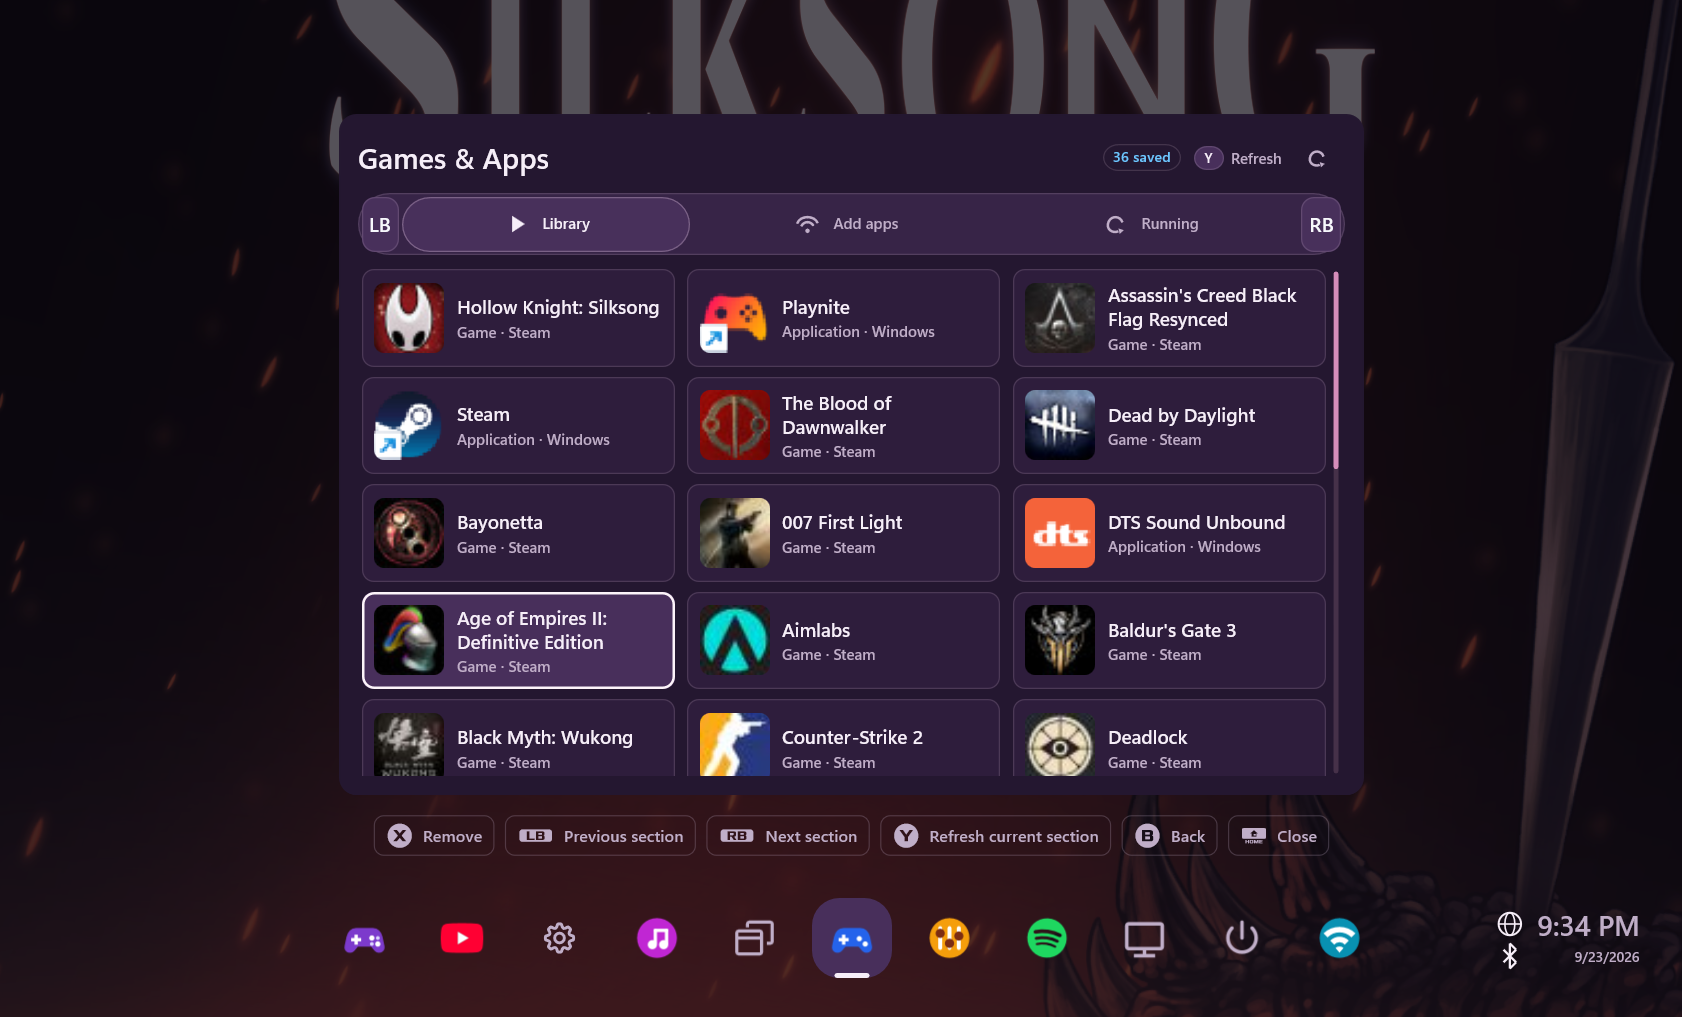
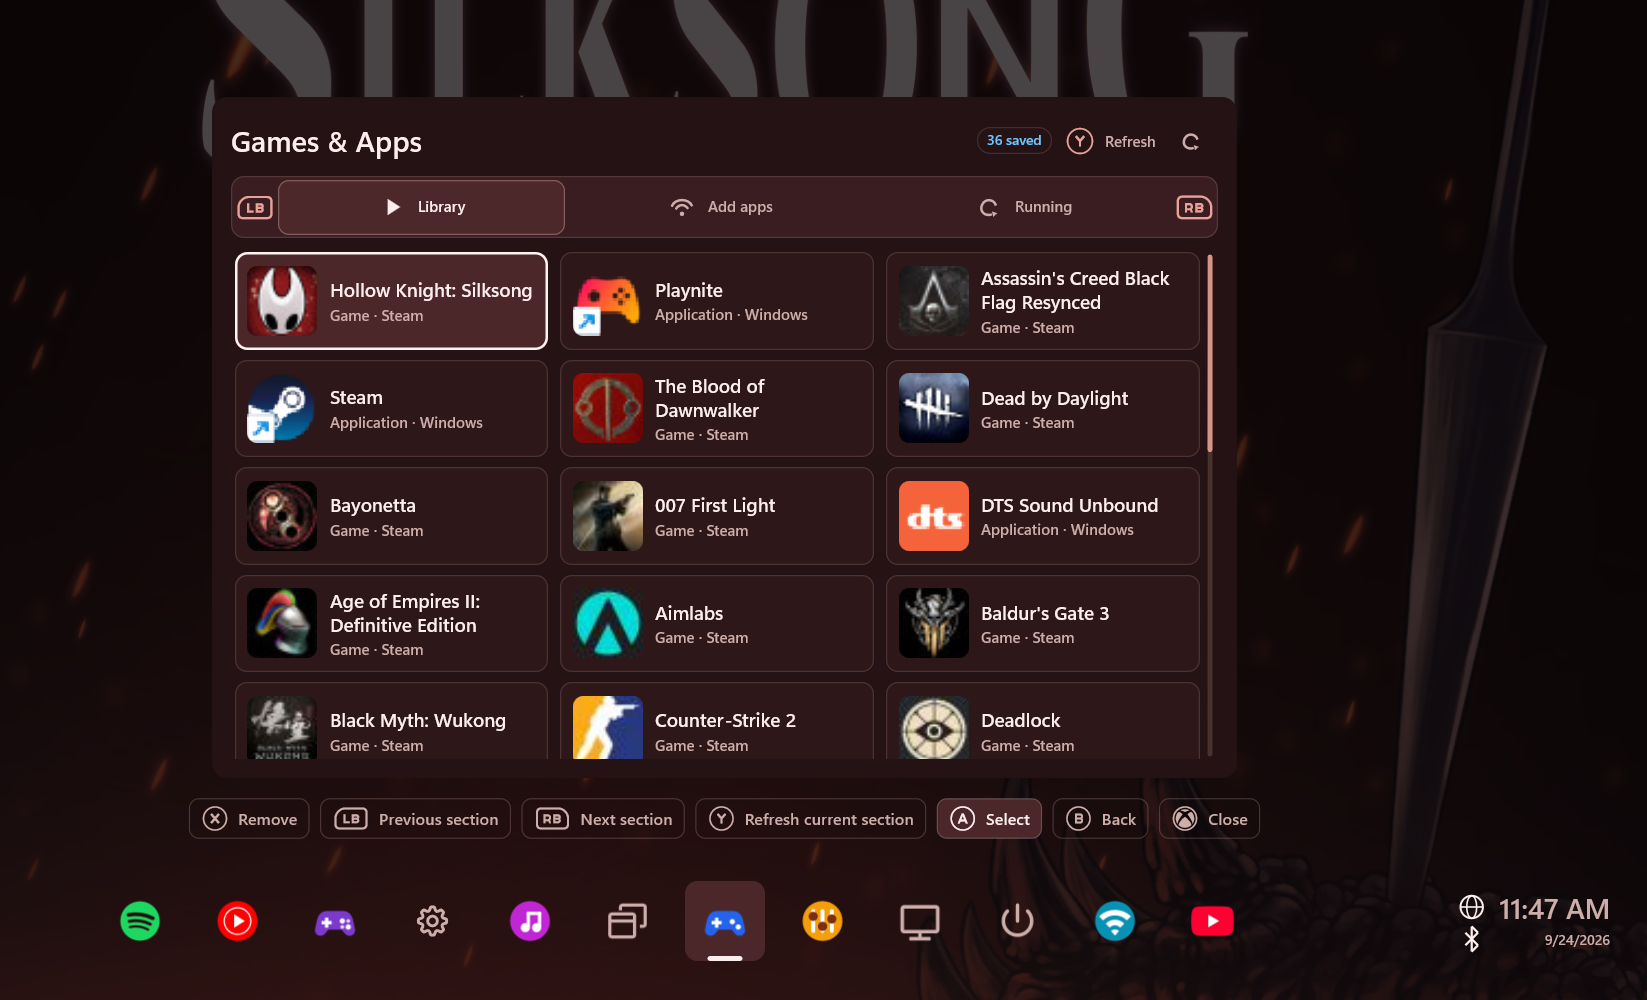
Refresh README overview screenshots with Kenney controller hints

diff --git a/README.md b/README.md
@@ -10,9 +10,9 @@ video or compact widget views visible while the main overlay is closed.
 
 [Download](https://github.com/sandwi-dev/WidgetRail/releases) · [Installation](docs/users/getting-started.md) · [Documentation](docs/README.md) · [Build a widget](docs/developers/widget-quickstart.md)
 
-![WidgetRail's radial switcher over the Games & Apps widget](docs/images/overview-games-apps-radial.png)
+![Games & Apps with WidgetRail's horizontal rail and Xbox controller hints](docs/images/overview-rail.png)
 
-![Games & Apps with WidgetRail's horizontal rail](docs/images/overview-rail.png)
+![WidgetRail's radial switcher over Games & Apps with PlayStation controller hints](docs/images/overview-games-apps-radial.png)
 
 ## Quick start
 
